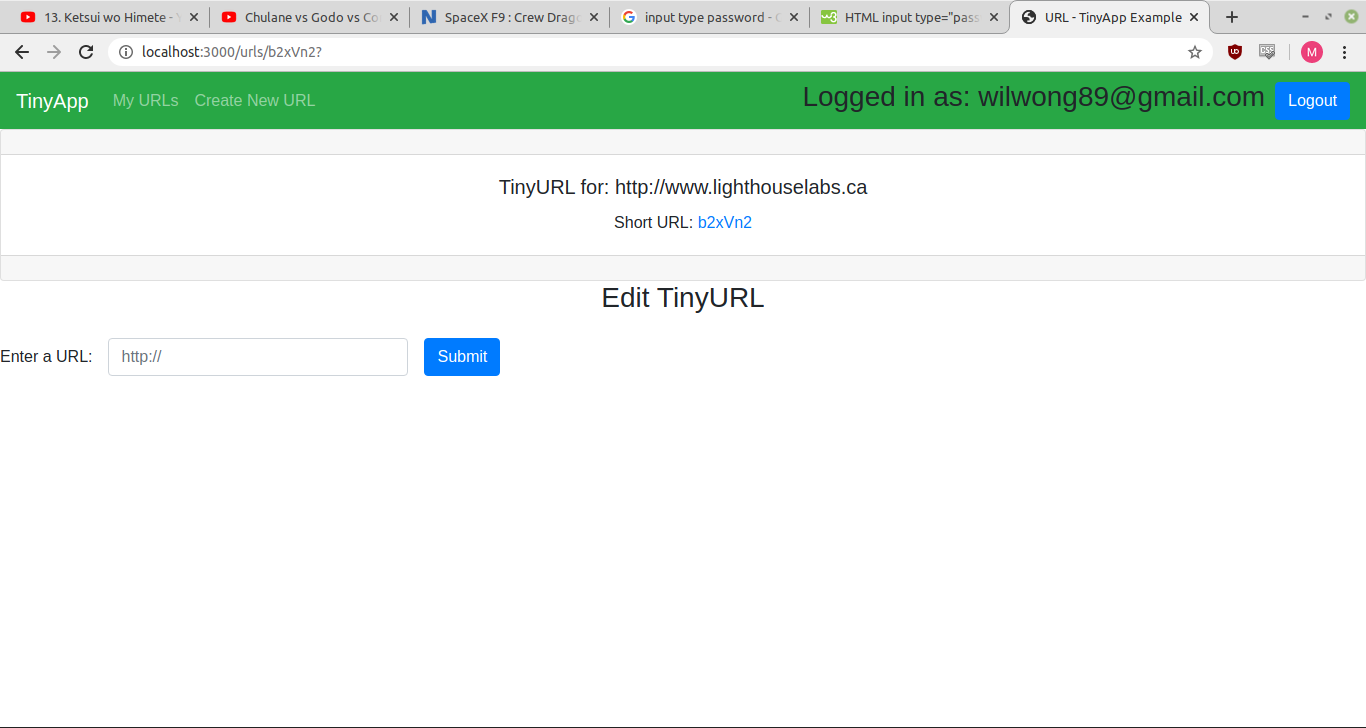
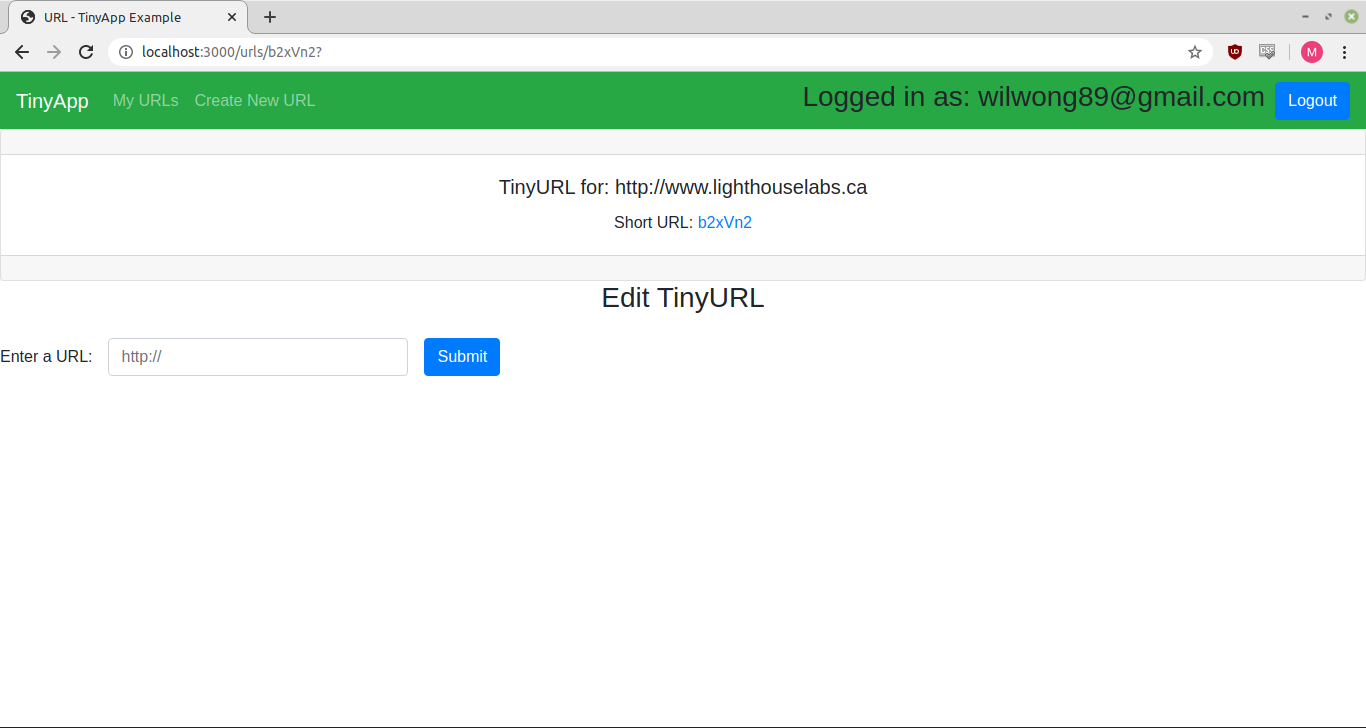
Updated to better pictures for readme

Changed region(s): [[0.3075, 0.0, 0.7072, 0.0302], [0.0, 0.0, 0.2767, 0.0302], [0.7379, 0.0, 0.8917, 0.0302]]

diff --git a/README.md b/README.md
@@ -4,9 +4,13 @@ TinyApp is a full stack web application built with Node and Express that allows 
 
 ## Final Product
 
+Preview of registration page
 !["Preview of registration page"](https://github.com/wilwong89/tinyapp/blob/master/pictures/TinyAppRegister.png)
+Preview of login page
 !["Preview of login page"](https://github.com/wilwong89/tinyapp/blob/master/pictures/TinyAppLogin.png)
+Preview of URL add page
 !["Preview of URL add page"](https://github.com/wilwong89/tinyapp/blob/master/pictures/TinyAppUrlAdd.png)
+Preview of URL index page
 !["Preview of URL index page"](https://github.com/wilwong89/tinyapp/blob/master/pictures/TinyAppUrlIndex.png)
 
 ## Dependencies
